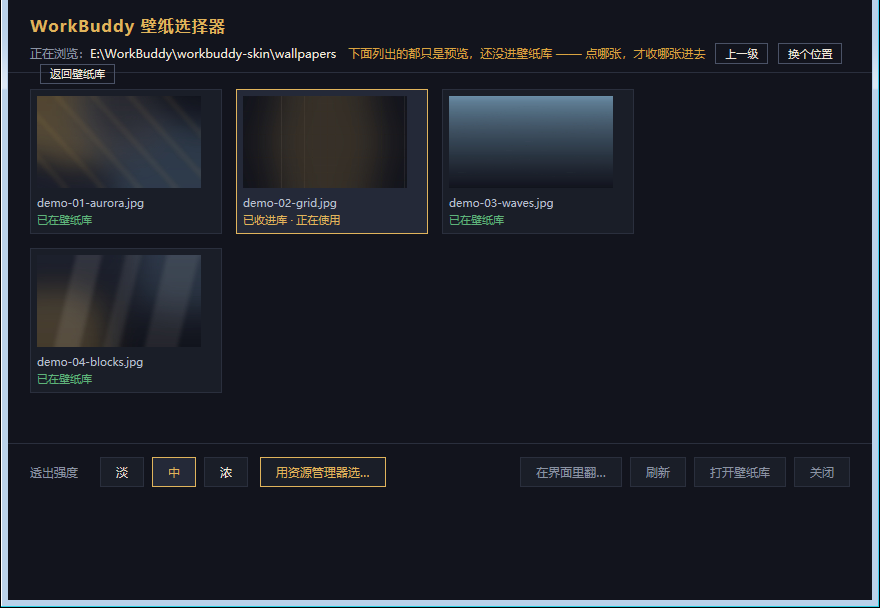
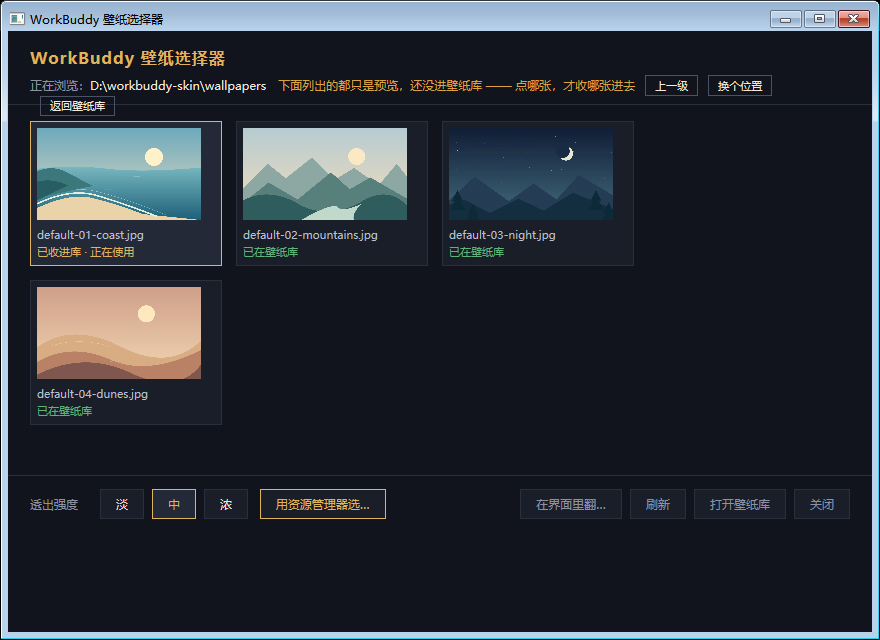
feat: 内置 4 张默认壁纸，空库也能直接换肤
背景：此前空壁纸库时选择器一片空白，用户无从下手。

- template/default-wallpapers/：新增 4 张 JPEG 默认壁纸
  （default-01-coast / 02-mountains / 03-night / 04-dunes）
- template/tools/seed-default-wallpapers.mjs：幂等补齐（COPYFILE_EXCL），
  库中已有图片则完全不改动；仅在空库时写 current.json 选中 default-01-coast
- template/tools/build-wallpaper-picker.mjs：构建时调用 seedDefaultWallpapers()
- scripts/init.mjs：删除旧的「装一张默认壁纸」整块，改由构建期幂等补齐
- scripts/test-default-wallpapers.mjs：新增自检
- template/tools/_shot-picker.mjs：隐私闸放行 default-* 固件名，允许隔离树重拍
- template/docs/picker.png、picker-browse.png：重拍（880×640）
- README.md / SKILL.md / template/README.md / 使用说明.txt：
  文件数 40 → 46，目录树与流程说明同步

diff --git a/README.md b/README.md
@@ -48,7 +48,7 @@ rem 3. 注入皮肤（WorkBuddy 需要在运行）
    因为皮肤只活在应用内存里，重启就丢 —— 这个入口在登录后补一次。
 
 > 初始化脚本按顺序做这些事：找到 WorkBuddy 装在哪 → 展开工程 → 生成 `env.cmd`
-> → 生成壁纸选择器（连图标一起）→ 打包主题 → 装一张默认壁纸 → 装开机补注入入口。
+> → 生成壁纸选择器（连图标一起）→ 打包主题 → 补齐四张默认壁纸 → 装开机补注入入口。
 > 每一步都告诉你它干了什么、跳过了什么。
 >
 > **它不会碰 WorkBuddy 自己的「开机自启」开关。** 那条记录由应用每次启动自己重写，
@@ -102,7 +102,7 @@ rem 3. 注入皮肤（WorkBuddy 需要在运行）
 
 > 📷 截图里的主按钮就是「**用资源管理器选…**」，点它弹出来的是**资源管理器自己的选图框** ——
 > 有缩略图、有左侧导航、能搜索；旁边还有一个「在界面里翻…」，走界面自带的那套。
-> 图里的壁纸是构建时生成的演示图（`demo-01..04`），不是本机壁纸库。
+> 图里的壁纸就是本套装自带的四张默认壁纸（`default-01..04`），首次打开即可预览 —— 不是本机壁纸库。
 
 - 一屏就能看清「壁纸库里有哪些」和「现在用的是哪张」
 - 翻的时候只是**给你看**，点中哪张才真收哪张进去 —— 不会把一整个文件夹全倒进来
@@ -143,9 +143,10 @@ rem 3. 注入皮肤（WorkBuddy 需要在运行）
 ├── SKILL.md                  ← 给 AI Agent 读的操作手册（人也能看）
 ├── scripts\
 │   └── init.mjs              ← 一键初始化：展开工程 + 探测本机 + 生成产物
-├── template\                 ← 展开到用户机器上的工程模板（40 个文件）
+├── template\                 ← 展开到用户机器上的工程模板（46 个文件）
 │   ├── launcher\             ← 你唯一需要碰的目录（全是双击）
 │   ├── tools\                ← 全部脚本
+│   ├── default-wallpapers\   ← 套装自带的四张默认壁纸（JPEG）
 │   ├── themes\               ← 主题源（改配色改这里）
 │   ├── README.md             ← 工程侧完整说明（设计取舍都写在这儿）
 │   └── docs\                 ← 界面实拍

diff --git a/SKILL.md b/SKILL.md
@@ -58,11 +58,11 @@ node <本skill目录>\scripts\init.mjs --dest D:\my\workbuddy-skin
 它会依次做完这些事，每一步都打印做了什么：
 
 1. **探测本机环境** —— node、WorkBuddy 主程序、CodeDrobe CLI
-2. **展开工程** —— 把 `template/` 铺到目标目录（40 个文件，已剔除本机专属项）
+2. **展开工程** —— 把 `template/` 铺到目标目录（46 个文件，已剔除本机专属项）
 3. **生成 `launcher\env.cmd`** —— 本机路径落在这一份文件里
 4. **构建壁纸选择器** —— 生成 `launcher\壁纸选择器.hta`（纯 ASCII 产物）
 5. **构建主题包** —— `build\<主题id>-<版本>.codedrobe-theme`
-6. **装一张默认壁纸** —— 壁纸库空时用主题自带的 hero 图打底，避免开箱是一片空白
+6. **补齐四张默认壁纸** —— 自带四张 JPEG 风景壁纸，首次打开即可预览；保留已有图片与当前选择
 7. **给壁纸选择器配一个带图标的入口** —— 在 `launcher\` 里生成 `壁纸选择器.lnk`
    （`.hta` 的文件图标由 Windows 的**扩展名关联**决定，与文件内容无关，详见 §7.10.1。
    这一步失败不致命：没有快捷方式时双击 `.hta` 一切照旧，只是图标是系统默认的）
@@ -909,7 +909,8 @@ ICON 属性的排查经过（都不是猜的）：
 │   ├── workbuddy.css         （自动生成，勿手改）
 │   └── assets\
 │       ├── legacy-skin-workbuddy.css   ← 改配色改这里
-│       └── hero.webp                   （主题自带图，同时用作默认壁纸）
+│       └── hero.webp                   （主题自带图）
+├── default-wallpapers\       ← 套装自带的四张默认壁纸（构建时补进 wallpapers\）
 ├── build\                    ← 主题包产物
 ├── wallpapers\               ← 壁纸库 + current.json
 ├── backup\                   ← 原始快捷方式的备份（还原用）

diff --git a/template/README.md b/template/README.md
@@ -29,7 +29,7 @@ rem 3. 注入皮肤（WorkBuddy 需要在运行）
    登录时补一次主题层注入。**只补注入、不启动 WorkBuddy** ——
    要不要开机自启是用户的决定。
 
-> 初始化脚本会探测本机路径、生成壁纸选择器（含带图标的入口）、构建并打包主题、装一张默认壁纸。
+> 初始化脚本会探测本机路径、生成壁纸选择器（含带图标的入口）、构建并打包主题、补齐四张默认壁纸。
 > 主程序装在非标准路径也能识别；识别不到就加 `--app "C:\...\WorkBuddy.exe"` 指定一次。
 > **它不会去改 WorkBuddy 自己的开机自启项** —— 那条由应用每次启动重写，改了也留不住（见「架构」一节）。
 

diff --git a/template/default-wallpapers/README.md b/template/default-wallpapers/README.md
@@ -1,0 +1,5 @@
+# 默认壁纸
+
+海岸晨光、青山日出、星河夜色、暖沙丘四张原创矢量风景渲染为1920×1080 JPEG，随本项目按 LICENSE 分发，无外部素材或用户私有图片。
+
+构建选择器时只补缺失图片，首次空库默认选中海岸晨光；已有图片、当前选择和浓淡不改。JPEG兼容Windows HTA预览，不依赖WebP解码器。
